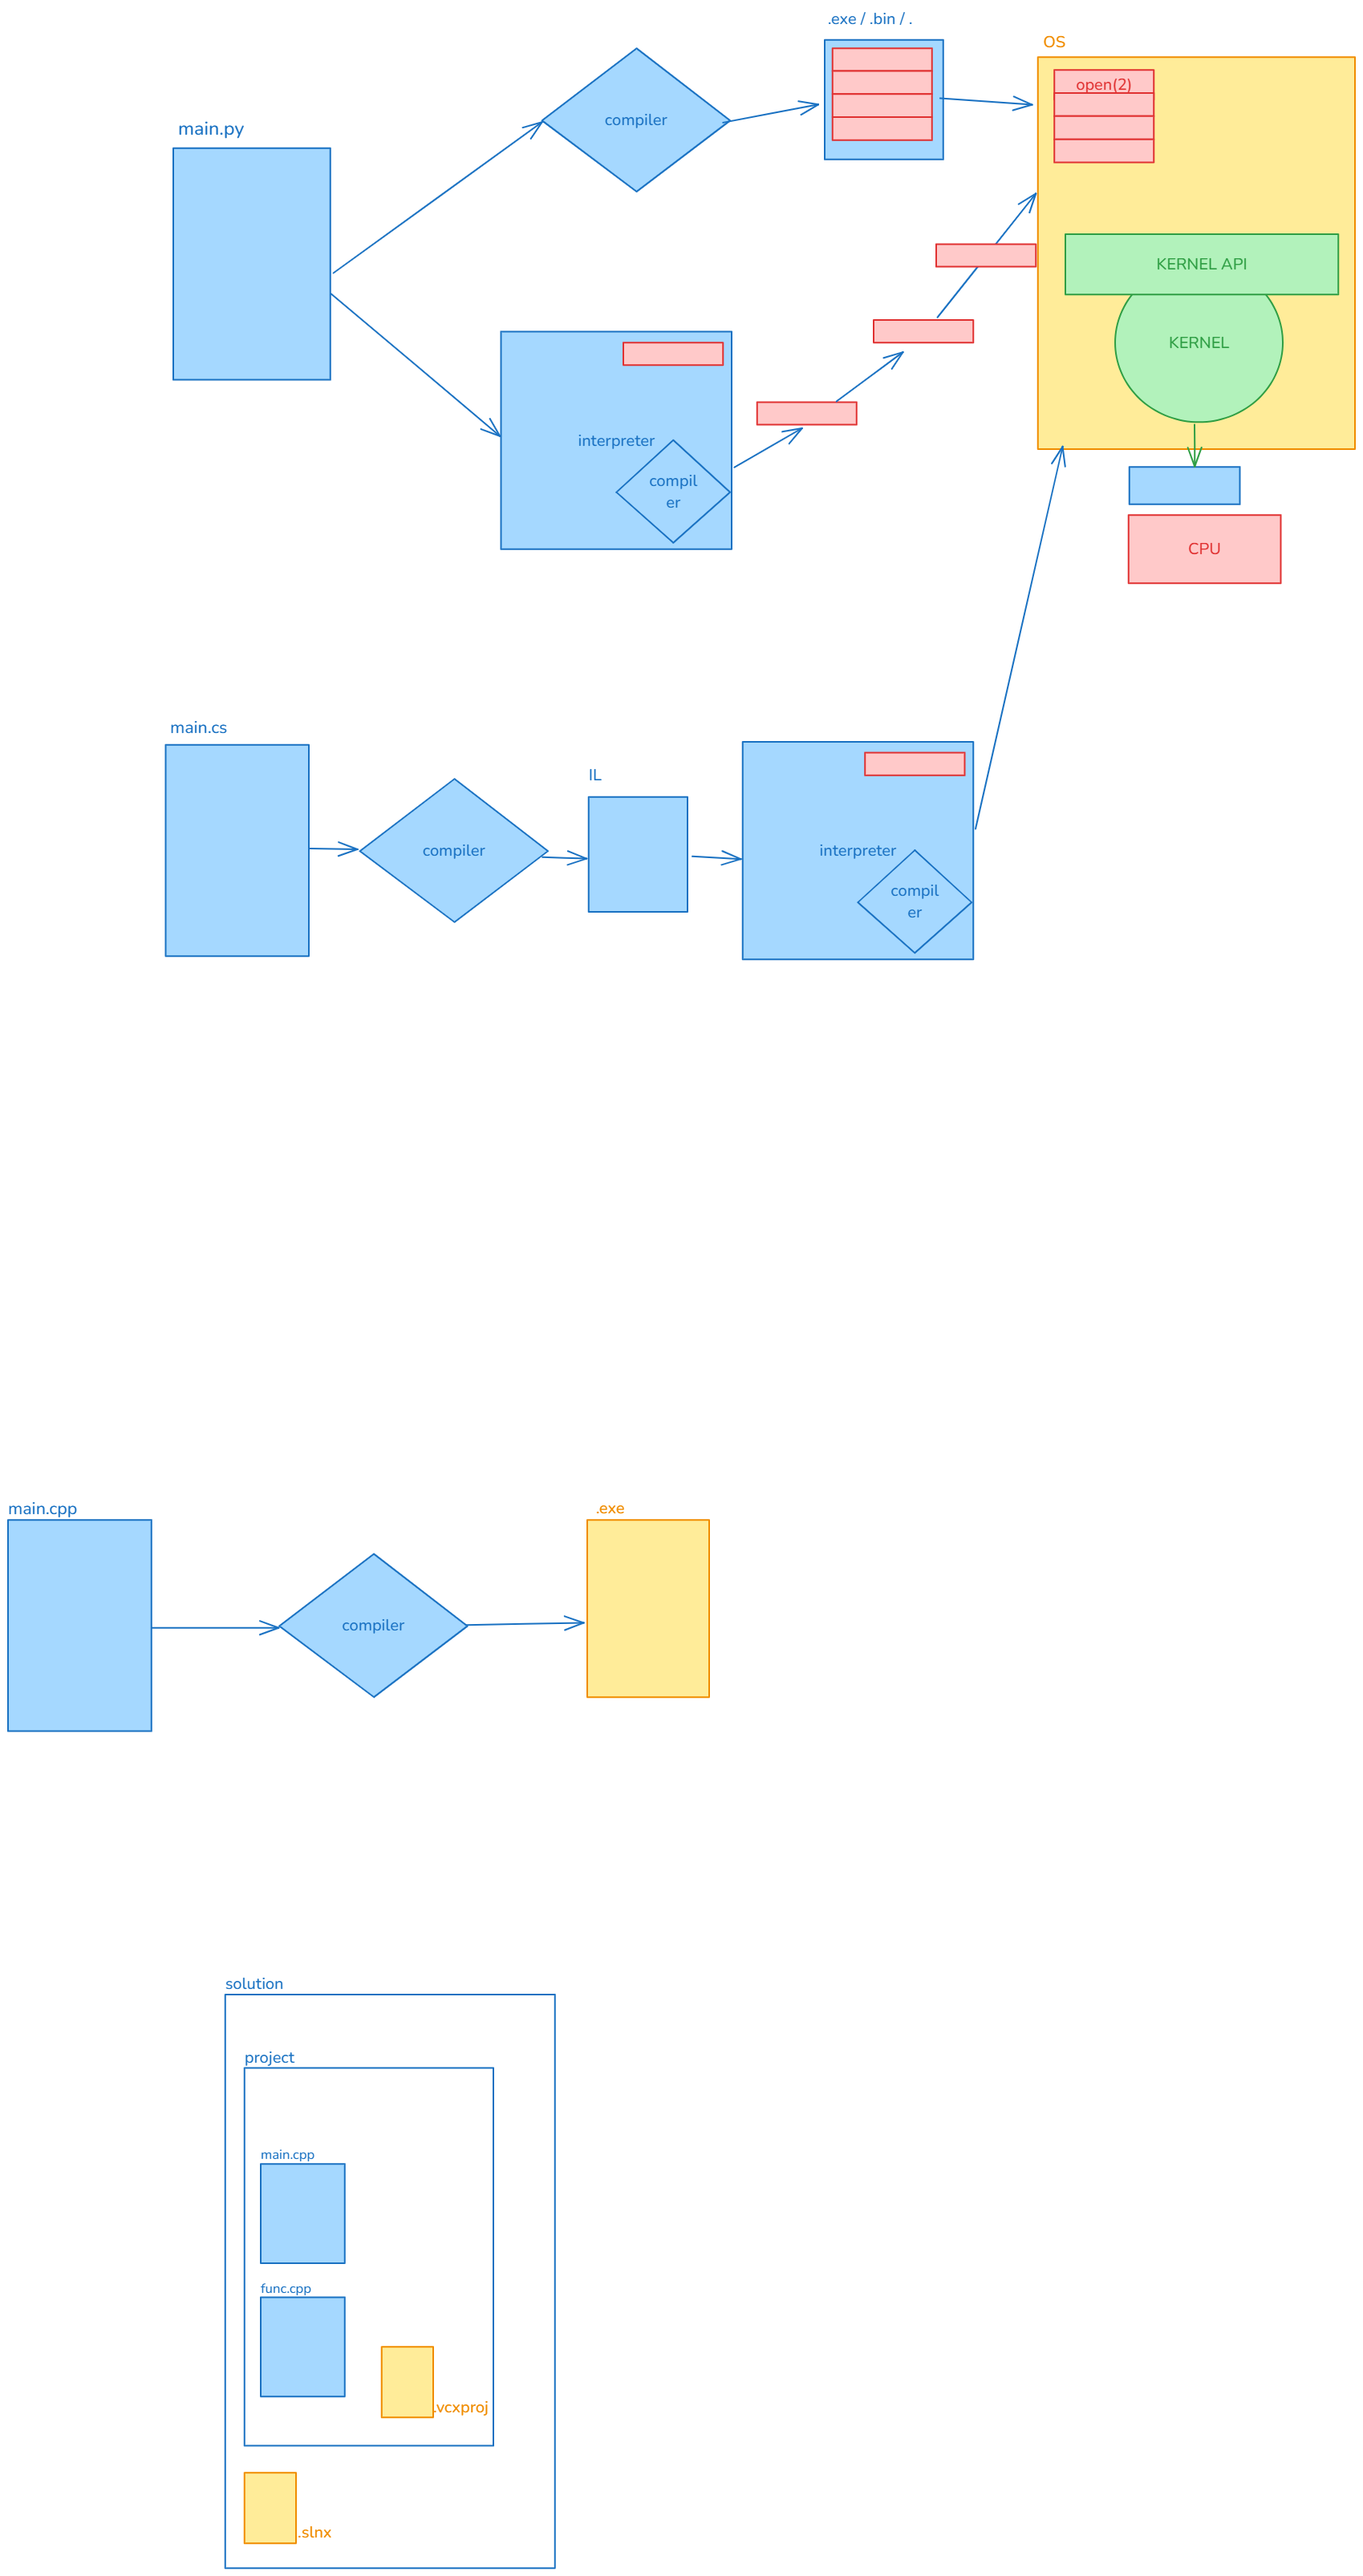
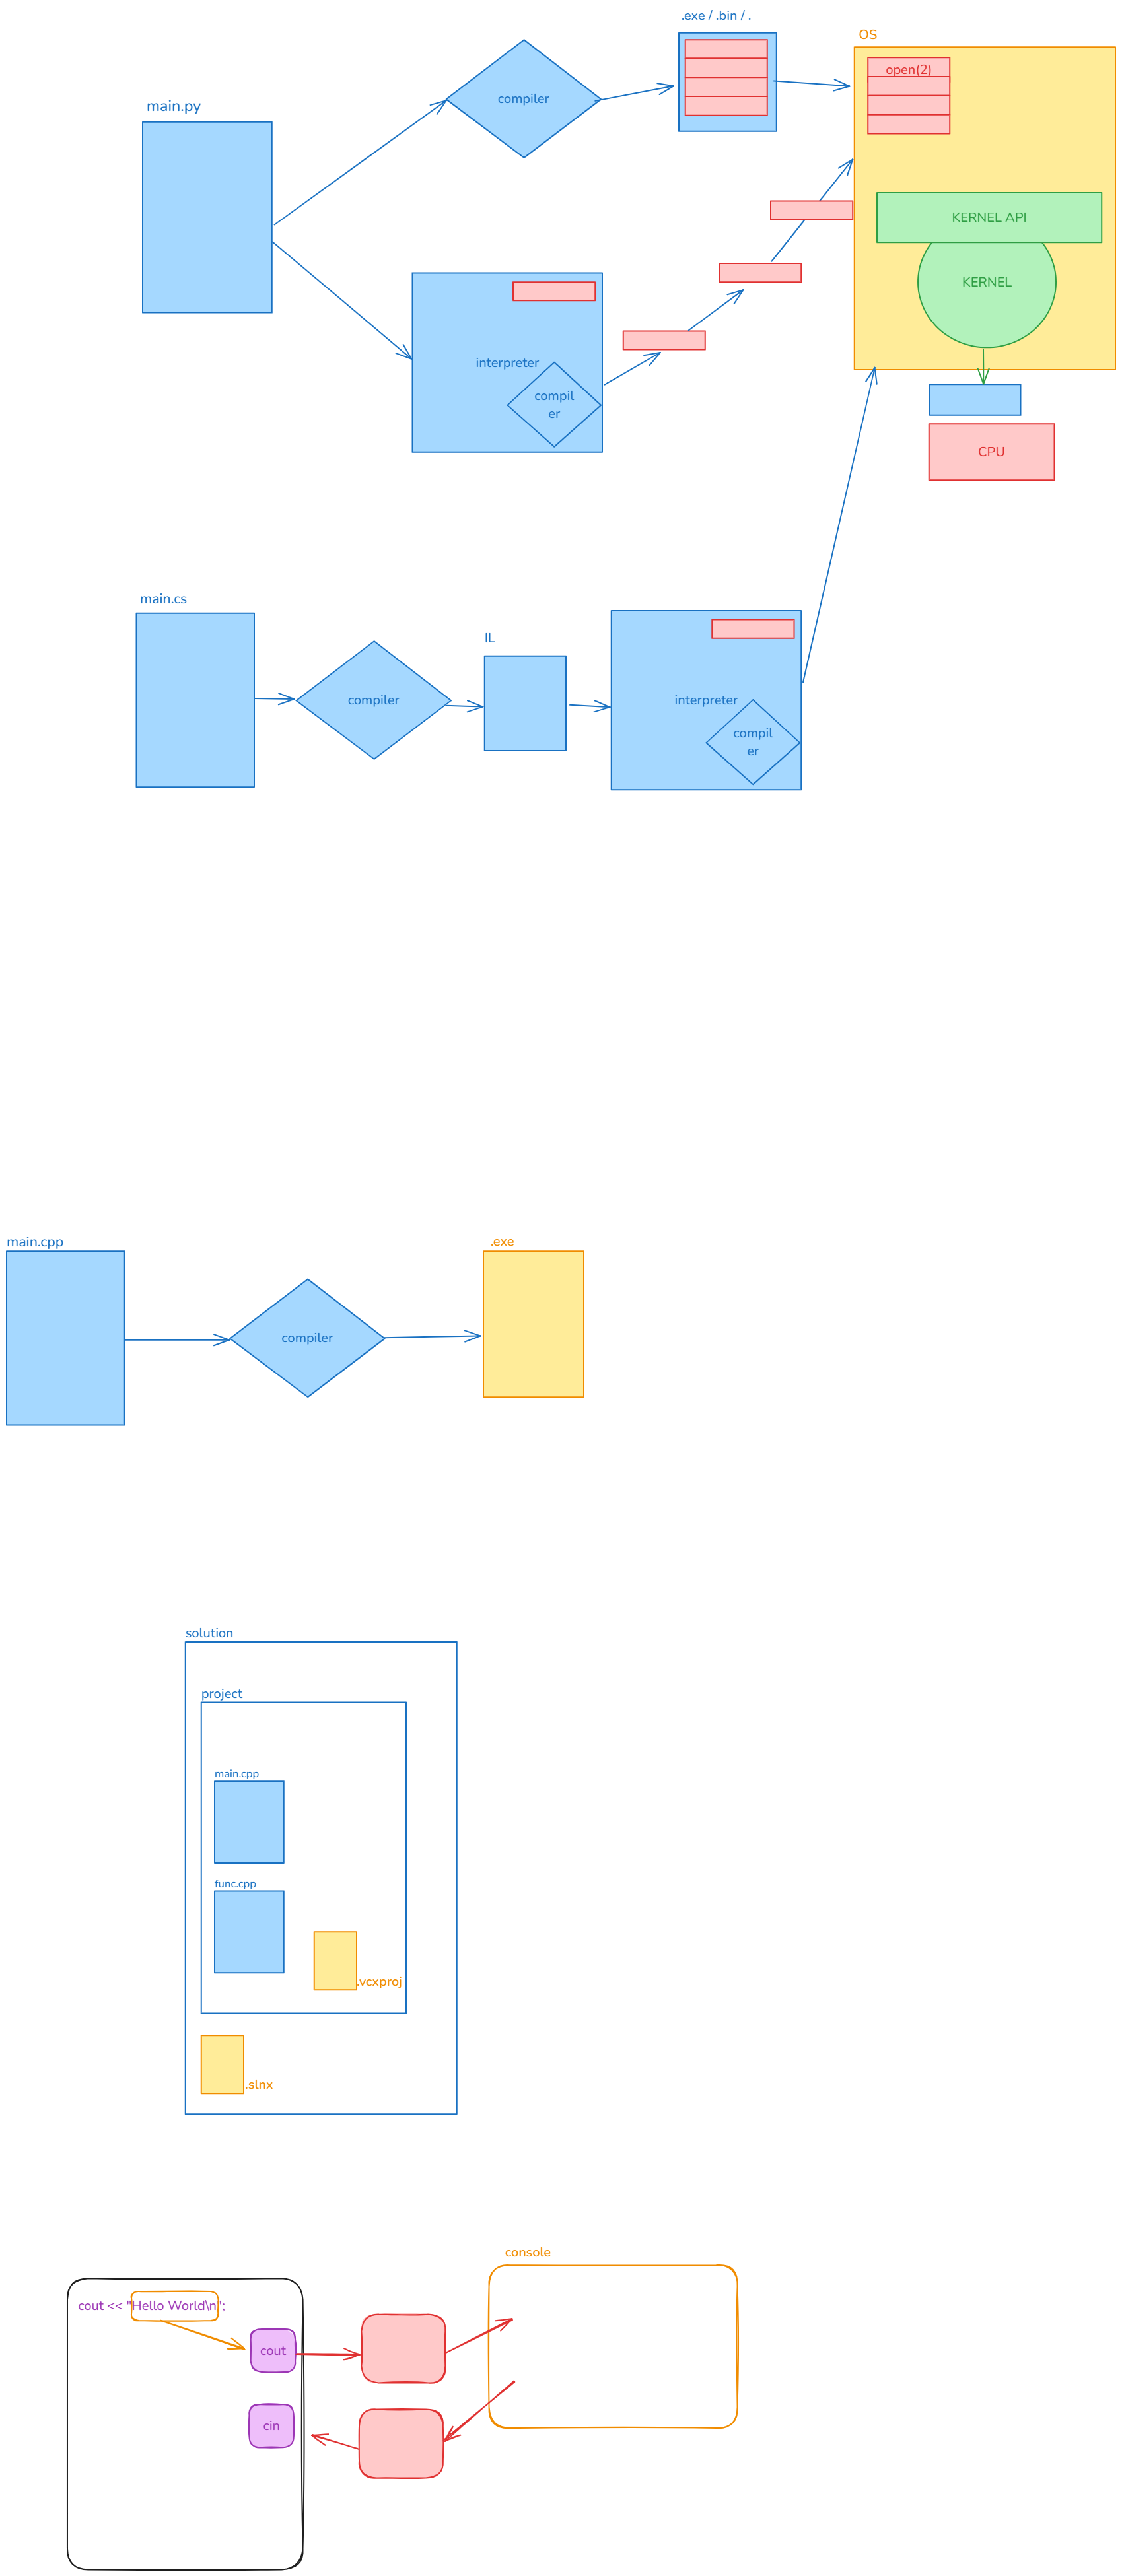
add:types

diff --git a/01_intro/01_intro/01_intro.cpp b/01_intro/01_intro/01_intro.cpp
@@ -1,7 +1,32 @@
 #include <iostream>
 
+using namespace std;
+
 int main()
 {
-    std::cout << "Hello World!\n";
-}
+    cout << "Hello World!\n";
 
+    cout << "My name is " << "Vasia" << "\n";
+
+    // Hello World!\nMy name is Vasia\n
+
+    //      \t \n \b \r
+
+    cout << "value\\new" << "\n";
+
+    cout << "My name is \"Vasia\"" << "\n";
+
+    cout << "id\temail\tpassword";
+    
+    return 0;
+
+    //
+
+    // Ctrl + K + C
+
+    /*
+        first
+        second
+    */
+
+}

diff --git a/01_intro/02_types/main.cpp b/01_intro/02_types/main.cpp
@@ -1,0 +1,18 @@
+#include <iostream>
+
+
+int main()
+{
+	int a;			// 4b
+
+	unsigned int b;	// 4b
+
+	char c;			// 1b
+
+	return 0;
+}
+
+
+
+
+